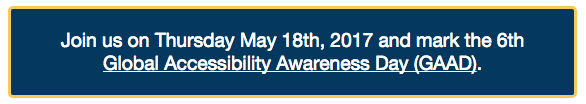
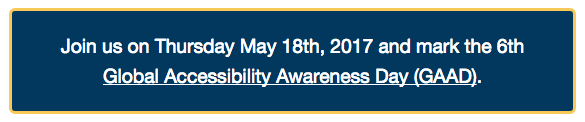
Bug #1/#2, README, basic translation, GA campaign tracking [iet:8994834]
* Document RawGit CDN hosting

Changed region(s): [[0.0, 0.0577, 0.9846, 0.9519], [0.1538, 0.5192, 0.8308, 0.7212], [0.0923, 0.2885, 0.9231, 0.4904]]

diff --git a/build/GAAD.widget.js b/build/GAAD.widget.js
@@ -1531,7 +1531,7 @@ Date.CultureInfo = {
         script: "GAAD.widget.js",
         lang: "en",
         template: 'Join us on Thursday %D and mark the %xth <a href="%U">Global Accessibility Awareness Day (GAAD)</a>.',
-        url: "http://globalaccessibilityawarenessday.org/",
+        url: "http://globalaccessibilityawarenessday.org/?utm_source=github&utm_campaign=gaad-widget",
         days_before: 10,
         days_after: 5,
         should_show: null,
@@ -1539,7 +1539,7 @@ Date.CultureInfo = {
         datefmt: GAAD_DATE.toString("MMMM dS, yyyy"),
         today: Date.today(),
         xth: Date.today().toString("yyyy") - 2011,
-        css: [ ".gaad-widget-js {", "  background: #00385E;", "  border: 3px solid #f8c958;", "  border-radius: 5px;", "  color: #fff;", "  display: block;", '  font: 1.2em "Helvetica Neue", Helvetica, Arial, sans-serif;', "  line-height: 1.5em;", "  margin: 1em;", "  padding: 20px;", "  text-align: center;", "}", ".gaad-widget-js a { color: #fff; text-decoration: underline; }" ]
+        css: [ ".gaad-widget-js {", "  background: #00385E;", "  border: 3px solid #f8c958;", "  border-radius: 6px;", "  color: #fff;", "  display: block;", '  font: 1.2em "Helvetica Neue", Helvetica, Arial, sans-serif;', "  line-height: 1.6em;", "  margin: 1em;", "  padding: 20px;", "  text-align: center;", "}", ".gaad-widget-js a { color: #fff; text-decoration: underline; }" ]
     };
     var scriptEl = D.querySelector('script[ src *= "' + defaults.script + '" ]');
     var data = scriptEl.getAttribute("data-gaad");

diff --git a/src/widget-src.js b/src/widget-src.js
@@ -20,7 +20,7 @@
     script: 'GAAD.widget.js',
     lang: 'en',
     template: 'Join us on Thursday %D and mark the %xth <a href="%U">Global Accessibility Awareness Day (GAAD)</a>.',
-    url: 'http://globalaccessibilityawarenessday.org/',
+    url: 'http://globalaccessibilityawarenessday.org/?utm_source=github&utm_campaign=gaad-widget',
     days_before: 10,
     days_after: 5,
     should_show: null,
@@ -32,11 +32,11 @@
       '.gaad-widget-js {',
       '  background: #00385E;',
       '  border: 3px solid #f8c958;',
-      '  border-radius: 5px;',
+      '  border-radius: 6px;',
       '  color: #fff;',
       '  display: block;',
       '  font: 1.2em "Helvetica Neue", Helvetica, Arial, sans-serif;',
-      '  line-height: 1.5em;',
+      '  line-height: 1.6em;',
       '  margin: 1em;',
       '  padding: 20px;',
       '  text-align: center;',

diff --git a/README.md b/README.md
@@ -4,8 +4,8 @@
 
 # nfreear/gaad-widget
 
-Display a banner-link to promote [Global Accessibility Awareness Day (GAAD)][gaad],
-for a period before and after the day.
+Display a banner-link to promote [Global Accessibility Awareness Day (GAAD)][gaad].
+The banner displays for a configurable period before and after the day.
 
 [![Global Accessibility Awareness Day][gaad-image]][gaad]
 
@@ -13,37 +13,100 @@ for a period before and after the day.
 > The purpose of GAAD is to get everyone talking, thinking and learning about digital
 > (web, software, mobile, etc.) access/inclusion and people with different disabilities.
 
+Built on [Datejs][].
+
 Note ~ this is not an official widget!
 
 [Original Gist][gist].
+
+## Features
+
+* Zero configuration required by default,
+* Paste and forget - the banner appears _10_ days before and disappears _5_ days after,
+* Configurable,
+* Basic internationalization,
+* Basic automated testing in place (Travis-CI),
+* Accessible ~ _let me know if you spot a problem!_
+
+[Wishlist][].
 
 ## Install and test
 
 ```sh
 npm install
 npm run build
+npm run build-min
 npm test
 ```
 
 ## Usage
 
+Via [RawGit][] - production / CDN:
+
 ```html
 <div id="id-gaad"></div>
 
-<script src="build/GAAD.widget.js" data-gaad='{ "days_before": 5 }'></script>
+<script src="https://cdn.rawgit.com/nfreear/gaad-widget/1.0-alpha/build/GAAD.widget.js"></script>
+```
+
+Local hosting:
+
+```html
+<div id="id-gaad"></div>
+
+<script src="build/GAAD.widget.js" ></script>
+```
+
+Setting the `days_before` option:
+
+```html
+<div id="id-gaad"></div>
+
+<script src="build/GAAD.widget.js" data-gaad='{ "days_before": 20 }'></script>
+```
+
+Setting several configuration options:
+
+```html
+<div id="custom_id"></div>
+
+<script
+  src="build/GAAD.widget.js"
+  data-gaad=
+  '{ "id": "custom_id", "days_before": 20, "days_after": 8, "url": "http://globalaccessibilityawarenessday.org/" }'
+  ></script>
+```
+
+## Translation
+
+Français (French):
+
+```html
+<div id="id-gaad"></div>
+
+<script
+  src="build/GAAD.widget.js"
+  data-gaad=
+  '{ "lang": "fr", "template": "Rejoignez-nous le jeudi 18 mai 2017 et marquer le %xème <a href=\"%U\">Global Accessibility Awareness Day (GAAD)</a>." }'
+  ></script>
 ```
 
 ## License
 
 License: [MIT][].
 
+Twitter: [@nfreear][];
 
-[GAAD]: http://globalaccessibilityawarenessday.org/
+
+[GAAD]: http://globalaccessibilityawarenessday.org/?utm_source=github&utm_campaign=gaad-widget
 [@gbla11yday]: https://twitter.com/gbla11yday
+[@nfreear]: https://twitter.com/nfreear
 [gaad-widget]: https://github.com/nfreear/gaad-widget
 [gaad-image]: https://github.com/nfreear/gaad-widget/raw/master/style/GAAD.widget.png
+[wishlist]: https://github.com/nfreear/gaad-widget/issues/2#!-Wishlist
 [gist]: https://gist.github.com/nfreear/eef4be96147cb5c1182cbc9e595f2833
 [Datejs]: https://github.com/datejs/Datejs
+[RawGit]: https://rawgit.com/
 [MIT]: https://nfreear.mit-license.org/ "MIT License"
 [travis]: https://travis-ci.org/nfreear/gaad-widget
 [travis-icon]: https://api.travis-ci.org/nfreear/gaad-widget.svg
